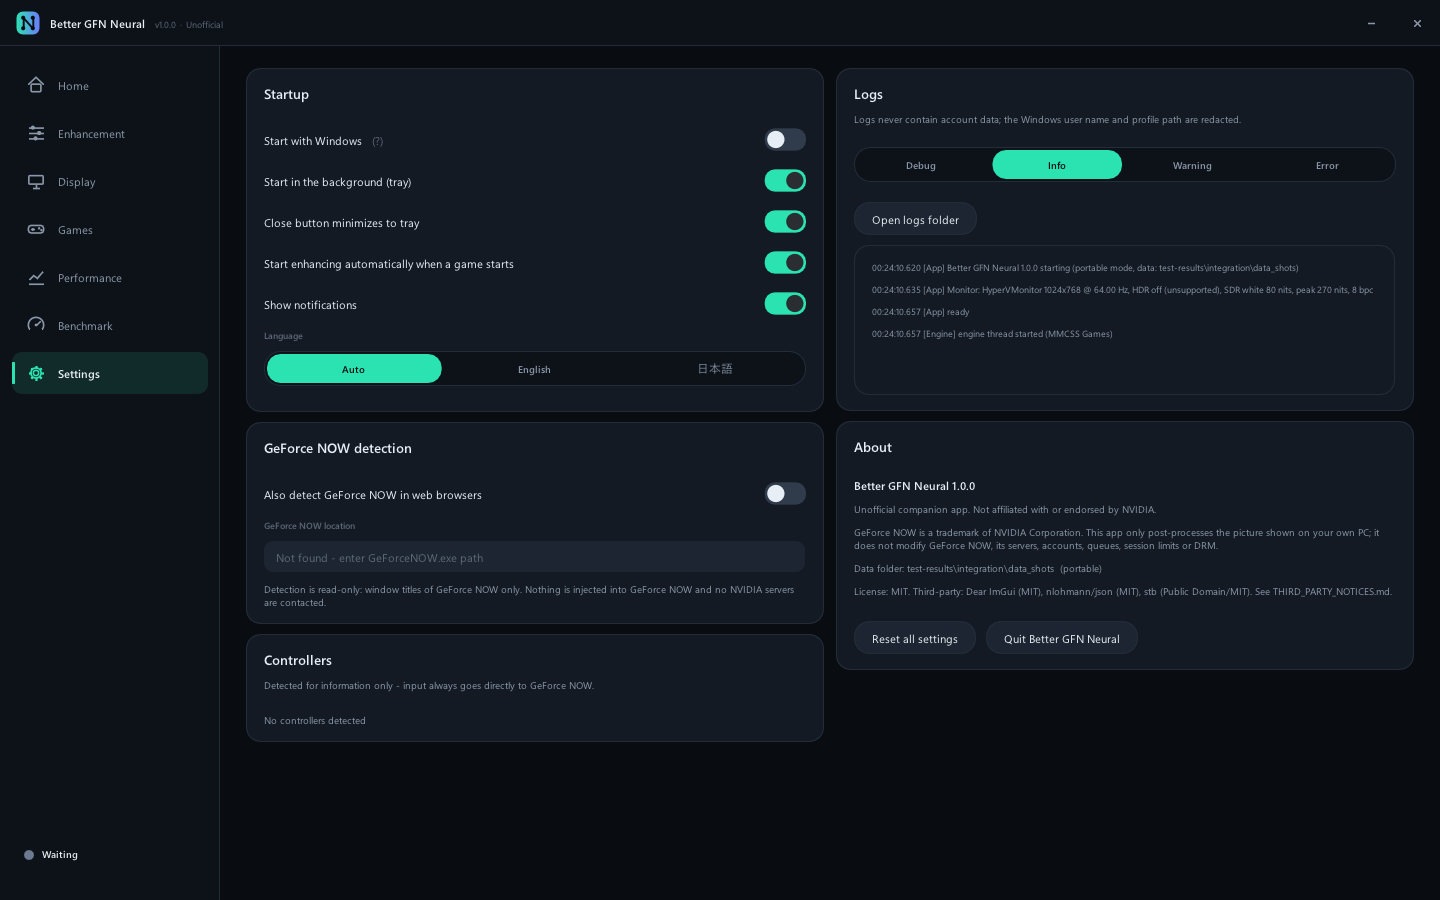
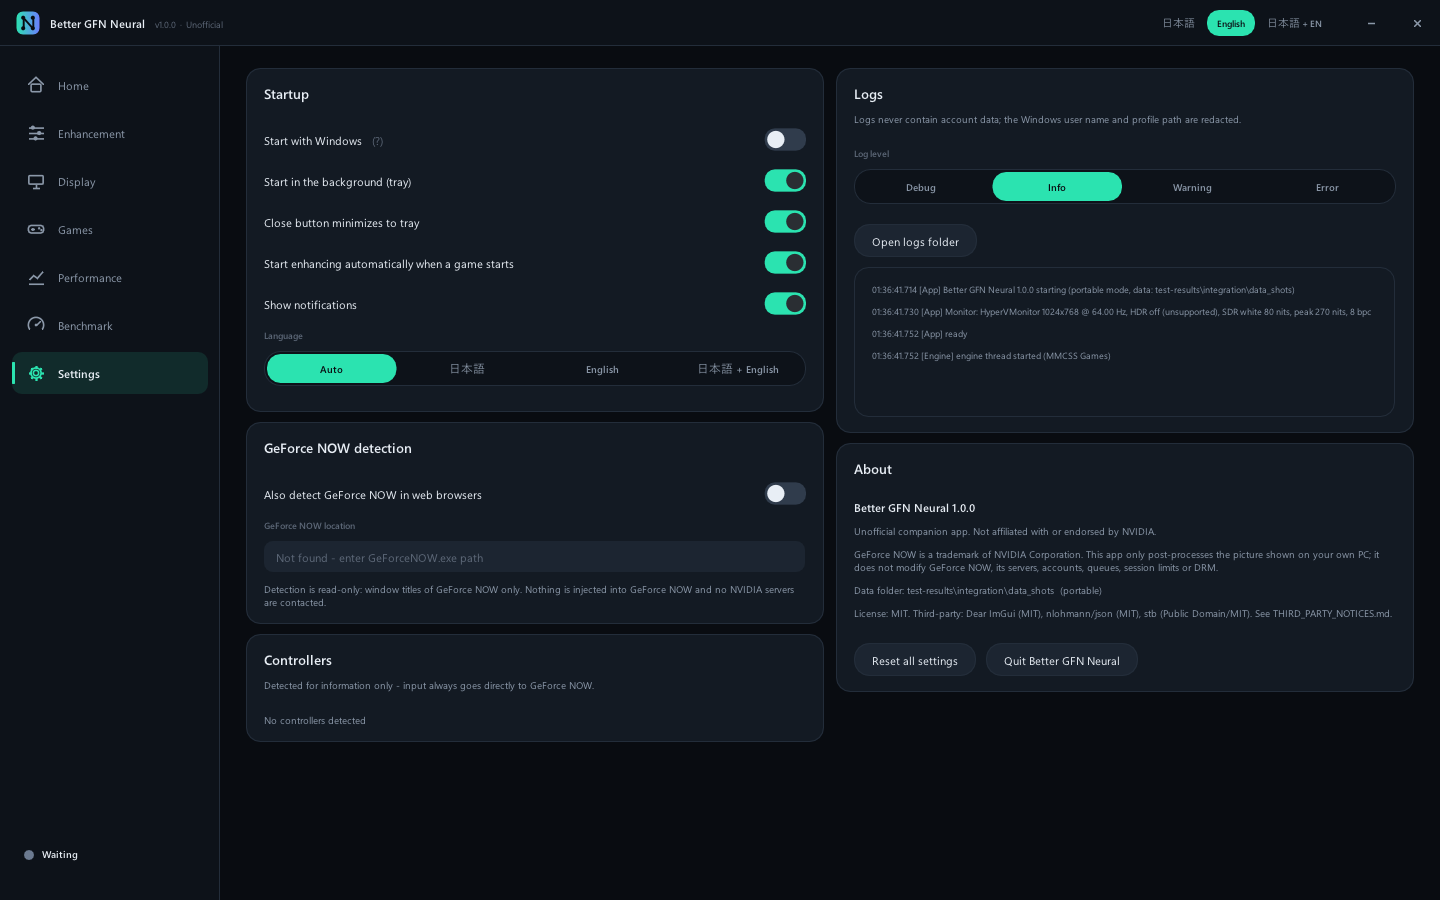
Docs: final CI results (run 13), Japanese / bilingual screenshots, i18n notes
- TEST_RESULTS.md regenerated from CI run 13 (unit 31/31, WARP self-test,
  benchmark, integration 21/21, package sizes and checksums).
- README shows the bilingual Home screen and Japanese screenshots of every
  page; docs/images holds English, Japanese and bilingual captures.
- KNOWN_ISSUES: UI language notes (OS-provided error text, English logs,
  simplified kinsoku).

Claude-Session: https://claude.ai/code/session_01AaQaW43X5Y4aA5qQg972tb

diff --git a/README.md b/README.md
@@ -25,15 +25,18 @@
 
 キーボードショートカットは一切不要です。設定はすべて GUI から変更でき、通常は **Auto（オートモード）** のままで最適な設定が自動選択されます。マウス・キーボード・コントローラー入力はそのまま GeForce NOW に届きます（出力ウィンドウはクリック透過・非アクティブ化）。
 
-<p align="center"><img src="docs/images/ui_home.png" width="720" alt="ホーム画面"></p>
+<p align="center"><img src="docs/images/ui_home_ja_en.png" width="720" alt="ホーム画面（日本語 + English 併記）"></p>
+
+UI は **日本語 / English / 日本語 + English（併記）** の 3 モード。画面右上のボタンでいつでも切り替えられます（初期値は自動：日本語版 Windows なら併記、それ以外は English）。
 
 <details><summary>その他の画面（CI の統合テストで自動撮影）</summary>
 
 | | |
 |---|---|
-| <img src="docs/images/ui_enhancement.png" width="420" alt="画質強化"> | <img src="docs/images/ui_performance.png" width="420" alt="パフォーマンス"> |
-| <img src="docs/images/ui_display.png" width="420" alt="ディスプレイ"> | <img src="docs/images/ui_games.png" width="420" alt="ゲームプロファイル"> |
-| <img src="docs/images/ui_benchmark.png" width="420" alt="ベンチマーク"> | <img src="docs/images/ui_first_run.png" width="420" alt="初回セットアップ"> |
+| <img src="docs/images/ui_enhancement_ja.png" width="420" alt="画質強化"> | <img src="docs/images/ui_performance_ja.png" width="420" alt="パフォーマンス"> |
+| <img src="docs/images/ui_display_ja.png" width="420" alt="ディスプレイ"> | <img src="docs/images/ui_games_ja.png" width="420" alt="ゲームプロファイル"> |
+| <img src="docs/images/ui_benchmark_ja.png" width="420" alt="ベンチマーク"> | <img src="docs/images/ui_first_run_ja.png" width="420" alt="初回セットアップ"> |
+| <img src="docs/images/ui_settings_ja_en.png" width="420" alt="設定（併記）"> | <img src="docs/images/ui_home.png" width="420" alt="Home (English)"> |
 
 </details>
 

diff --git a/docs/KNOWN_ISSUES.md b/docs/KNOWN_ISSUES.md
@@ -44,6 +44,12 @@
   (`WDA_EXCLUDEFROMCAPTURE`, needed to avoid feedback).
 * **HDR capture of SDR content** is captured as 8-bit; HDR streams are captured in
   FP16 only while Windows HDR is enabled on that monitor.
+* **UI language.** Japanese, English and Japanese + English are complete for all
+  built-in texts. Messages that come verbatim from Windows (e.g. the text of a
+  capture error returned by the OS) stay in the language Windows provides; the
+  part written by the app is translated. Log files are always English so they can
+  be shared for troubleshooting. Japanese line breaking follows basic kinsoku rules
+  (no closing punctuation or small kana at a line start), not the full JIS X 4051.
 
 ## Verification limits of this release
 
